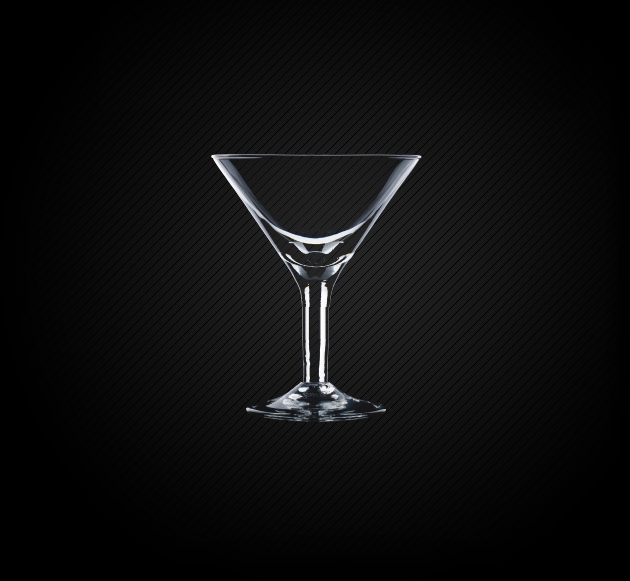
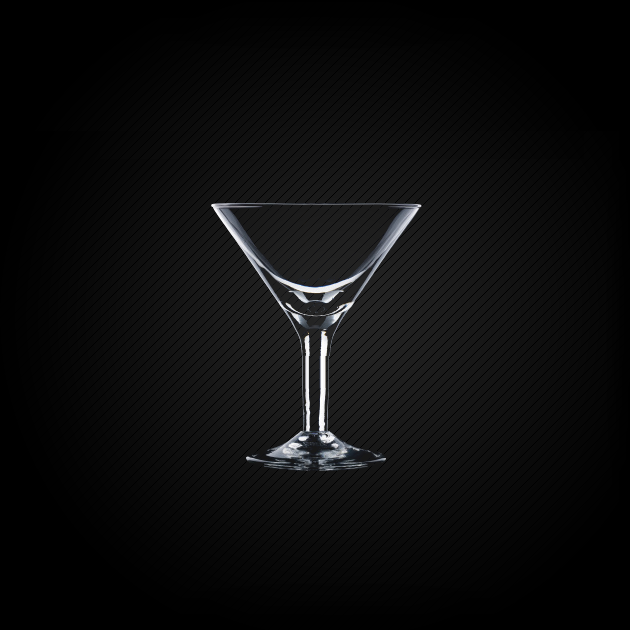
fix image

Changed region(s): [[0.3317, 0.2478, 0.6937, 0.7745], [0.573, 0.6196, 0.6333, 0.6506]]

diff --git a/htdocs/404.html b/htdocs/404.html
@@ -4,7 +4,7 @@
 <title>Странице не найдена — Inshaker</title>
 <style>
 	html { font-family: PT Sans, Arial, Tahoma, sans-serif; color: #fff; font-size: 10px; }
-	body { background: #000 url(/t/404/glass-on-spot.png) no-repeat center 75px; }
+	body { background: #000 url(/t/404/glass-on-spot.png) no-repeat center 25px; }
 	a { color: #52baff; text-decoration: none; border-bottom: 1px solid; }
 	a:hover { border-bottom: none; }
 	#message { position: relative; width: 310px; font-size: 18px; line-height: 24px; font-weight: normal; letter-spacing: 1px; margin: 95px auto 0; padding: 0 0 0 100px; left: 10px }
